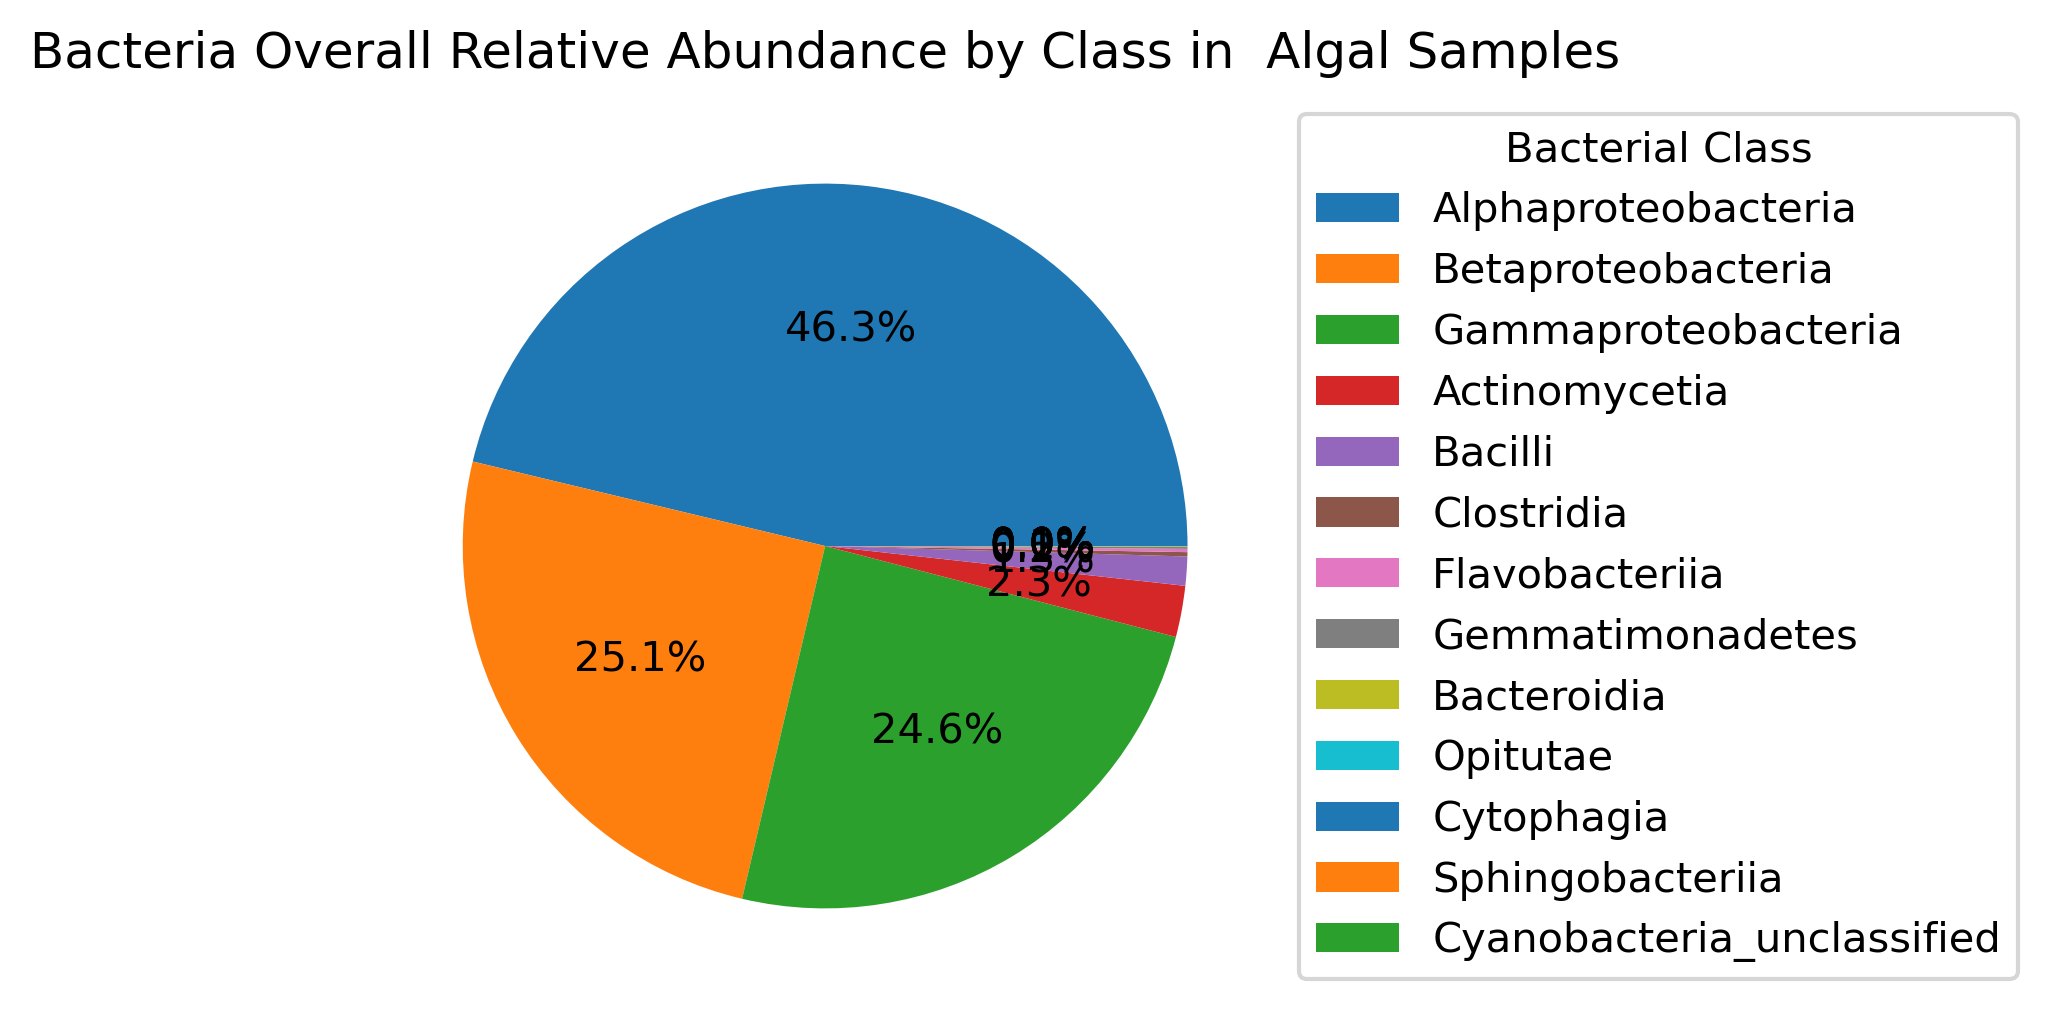
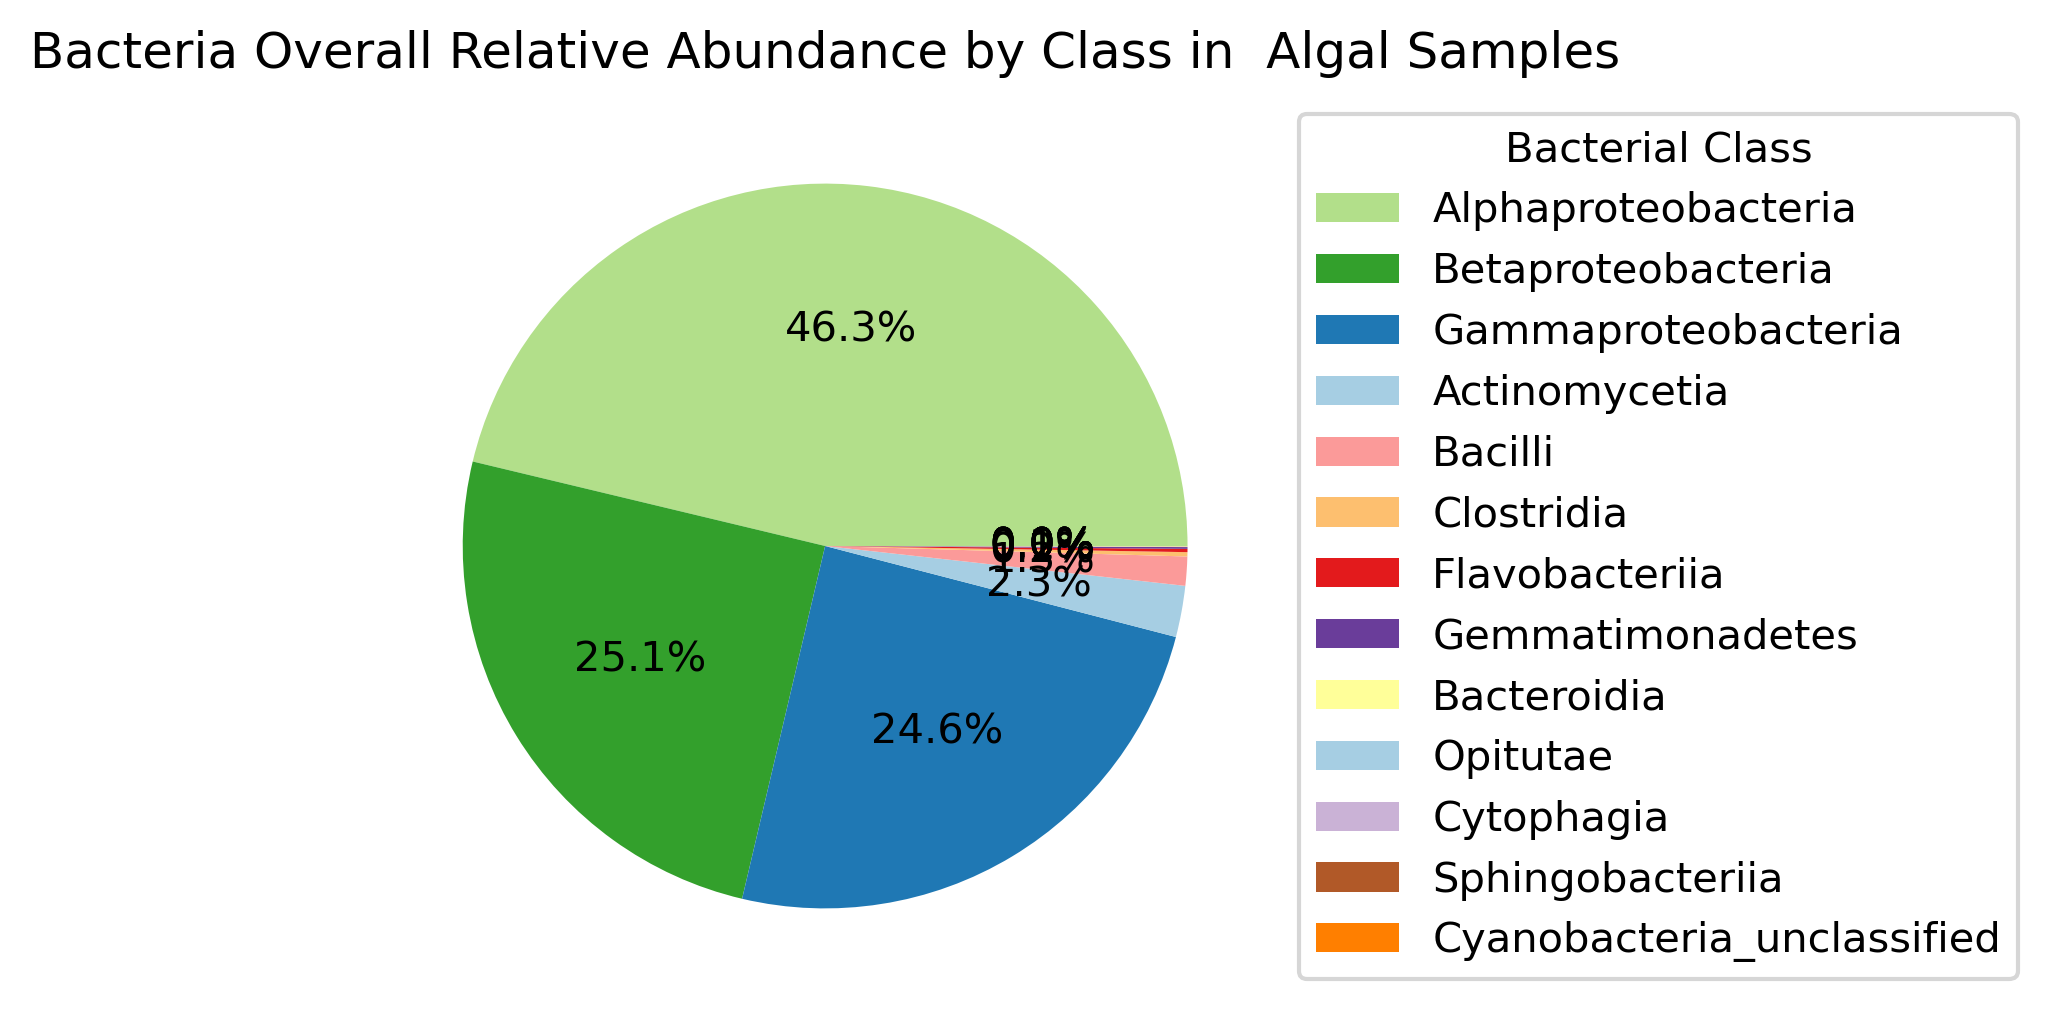
Updating codes for uniform colors and figures

diff --git a/algal_bacteria_metagen_analysis/analysing_overlap/analyze_mapping.py b/algal_bacteria_metagen_analysis/analysing_overlap/analyze_mapping.py
@@ -56,17 +56,6 @@ algaCellPhen.drop(columns=['index'],inplace=True)
 multiCellAlg=list(algaCellPhen[algaCellPhen['Phenotype']=='Multi']['Species'])
 uniCellAlg = list(algaCellPhen[algaCellPhen['Phenotype']=='Uni']['Species'])
 
-#Common bacteria in both algal types
-commonBac = bacRAinAlgSamps[(bacRAinAlgSamps['#MultAlgSp'] >0) & (bacRAinAlgSamps['#UniAlgSp'] >0)]
-
-#Bacterial species only present in multicellular algae samples
-multiSpecificBac = bacRAinAlgSamps[(bacRAinAlgSamps['#MultAlgSp'] >0) & (bacRAinAlgSamps['#UniAlgSp'] ==0)]
-
-#Bacterial species only present in Unicellular algae samples
-uniSpecificBac = bacRAinAlgSamps[(bacRAinAlgSamps['#MultAlgSp'] ==0) & (bacRAinAlgSamps['#UniAlgSp'] >0)]
-
-#Unique bacteria found only in one algal spices.
-uniqueBac = bacRAinAlgSamps[(bacRAinAlgSamps['#AlgSpTot'] ==1)]
 
 #Create detection matrix
 bacDetInAlgSamps = bacRAinAlgSamps.set_index('Microbial Species')
@@ -76,19 +65,34 @@ for bac in bacDetInAlgSamps.index:
             bacDetInAlgSamps.loc[bac,alg]=1
 
 # Assuming bacRAinAlgSamps is your DataFrame
-uniqueClasses = set(bacRAinAlgSamps['Class'].str.replace('c__',''))
+uniqueClasses = bacRAinAlgSamps['Class'].str.replace('c__','').unique()
+
 # Generate colors using cm.tab20 
-colorPalette = cm.tab20.colors # This gives us a list of 20 colors
+colorPalette = cm.Paired.colors # This gives us a list of 20 colors
+
  # Map each class to a color
 colorMap = {class_name: colorPalette[i % len(colorPalette)] for i, class_name in enumerate(uniqueClasses)}
  
 #Data without Chlamydomonas_callosa.
-bacRAinAlgSampsWoCall = bacRAinAlgSamps.drop(columns=['Chlamydomonas_callosa'])
-bacDetinAlgSampsWoCall = bacDetInAlgSamps.drop(columns=['Chlamydomonas_callosa'])
+bacRAinAlgSampsWoCall=bacRAinAlgSamps[((bacRAinAlgSamps['#AlgSpTot'] ==1) & (bacRAinAlgSamps['Chlamydomonas_callosa']!=0))==False]
+bacRAinAlgSampsWoCall = bacRAinAlgSampsWoCall.drop(columns=['Chlamydomonas_callosa'])
+bacDetinAlgSampsWoCall=bacDetInAlgSamps[((bacDetInAlgSamps['#AlgSpTot'] ==1) & (bacDetInAlgSamps['Chlamydomonas_callosa']!=0))==False]
+bacDetinAlgSampsWoCall = bacDetinAlgSampsWoCall.drop(columns=['Chlamydomonas_callosa'])
 algaCellPhenWoCall = algaCellPhen[algaCellPhen['Species']!='Chlamydomonas_callosa']
 uniCellAlgWoCall = uniCellAlg.copy()
 uniCellAlgWoCall.remove('Chlamydomonas_callosa')
 
+#Common bacteria in both algal types
+commonBac = bacRAinAlgSampsWoCall[(bacRAinAlgSampsWoCall['#MultAlgSp'] >0) & (bacRAinAlgSampsWoCall['#UniAlgSp'] >0)]
+
+#Bacterial species only present in multicellular algae samples
+multiSpecificBac = bacRAinAlgSampsWoCall[(bacRAinAlgSampsWoCall['#MultAlgSp'] >0) & (bacRAinAlgSampsWoCall['#UniAlgSp'] ==0)]
+
+#Bacterial species only present in Unicellular algae samples
+uniSpecificBac = bacRAinAlgSampsWoCall[(bacRAinAlgSampsWoCall['#MultAlgSp'] ==0) & (bacRAinAlgSampsWoCall['#UniAlgSp'] >0)]
+
+#Unique bacteria found only in one algal spices.
+uniqueBac = bacRAinAlgSampsWoCall[(bacRAinAlgSampsWoCall['#AlgSpTot'] ==1)]
 
 
 
@@ -191,8 +195,8 @@ def produce_pie_chart(mappingMatrix,aggTaxLevel,algaCellPhen,outDir,colorMap,phy
     
     #Pi chart showing RA of bacteria over all specified species.
     plt.figure()
-    piChart= totalBac.plot.pie(color=colors,labels=['']*len(totalBac),autopct='%1.1f%%')
-    plt.legend(totalBac.index,bbox_to_anchor=(1.0,1.0),title='Bacterial '+aggTaxLevel)
+    piChart= totalBac.plot.pie(colors=colors,labels=['']*len(totalBac),autopct='%1.1f%%').legend(totalBac.index,bbox_to_anchor=(1.0,1.0),title='Bacterial '+aggTaxLevel)
+    
     plt.title('Bacteria Overall Relative Abundance by '+ aggTaxLevel + ' in '  +' Algal Samples')
     plt.savefig(outDir+'overall_bac_by_'+aggTaxLevel+'.png', format='png', dpi=300, bbox_inches='tight')
     
@@ -244,8 +248,6 @@ def perform_pca(matrix,aggTaxLevel,uniCellAlg,multiCellAlg,outDir):
 # =============================================================================
 # Generating Figures.
 # =============================================================================
-#Bacterial classes RA for overall samples.
-bacteriaRAPiChart=produce_pie_chart(bacRAinAlgSamps,'Class',algaCellPhen,outDir=outDir,colorMap=colorMap,phylum=None)
 
 #Bacterial classes RA for every algal sample.
 bacRAbyClassFig = produce_stacked_chart(bacRAinAlgSamps, 'Class', algaCellPhen, 'All',outDir=outDir,colorMap=colorMap,logScale=False)
@@ -255,7 +257,10 @@ bacRAbyClassFig = produce_stacked_chart(bacRAinAlgSamps, 'Class', algaCellPhen, 
 multiSpBacFig = produce_stacked_chart(multiSpecificBac,'Class',algaCellPhen[algaCellPhen['Phenotype']=='Multi'],'Multicellular',outDir=outDir,colorMap=colorMap,logScale=True)
 
 #Bacterial classes RA for unicellular specific bacteria.
-uniSpecificBacFig = produce_stacked_chart(uniSpecificBac,'Class',algaCellPhen[algaCellPhen['Phenotype']=='Uni'],'Unicellular',outDir=outDir,colorMap=colorMap,logScale=True)
+uniSpecificBacFig = produce_stacked_chart(uniSpecificBac,'Class',algaCellPhenWoCall[algaCellPhenWoCall['Phenotype']=='Uni'],'Unicellular',outDir=outDir,colorMap=colorMap,logScale=True)
+
+#Bacterial classes RA for overall samples.
+bacteriaRAPiChart=produce_pie_chart(bacRAinAlgSamps,'Class',algaCellPhen,outDir=outDir,colorMap=colorMap,phylum=None)
 
 #PCA by species for ORA.
 varRASpecies = perform_pca(bacRAinAlgSamps, 'Species', uniCellAlg, multiCellAlg,outDir=outDir)
@@ -277,9 +282,11 @@ varDetSpeciesWoCall = perform_pca(bacDetinAlgSampsWoCall, 'Species', uniCellAlgW
 
 ##PCA by Class for ORA without Chlamydomonas_Callosa
 varRASpeciesWoCall = perform_pca(bacRAinAlgSampsWoCall, 'Class', uniCellAlgWoCall, multiCellAlg,outDir=outDir+'wo_callosa_')
-
-totBacSp = len(bacRAinAlgSamps)
-mostCommon = bacRAinAlgSamps[bacRAinAlgSamps['#AlgSpTot'] == max(bacRAinAlgSamps['#AlgSpTot'])]['Microbial Species'].values[0]
-mostCommonMult = bacRAinAlgSamps[bacRAinAlgSamps['#MultAlgSp'] == max(bacRAinAlgSamps['#MultAlgSp'])]['Microbial Species'].values[0]
-mostCommonUni = bacRAinAlgSamps[bacRAinAlgSamps['#UniAlgSp'] == max(bacRAinAlgSamps['#UniAlgSp'])]['Microbial Species'].values[0]
+#%%
+totBacSp = len(bacRAinAlgSampsWoCall)
+mostCommon = bacRAinAlgSampsWoCall[bacRAinAlgSampsWoCall['#AlgSpTot'] == max(bacRAinAlgSampsWoCall['#AlgSpTot'])]['Microbial Species'].values[0],max(bacRAinAlgSampsWoCall['#AlgSpTot'])
+mostCommonMult = bacRAinAlgSampsWoCall[bacRAinAlgSampsWoCall['#MultAlgSp'] == max(bacRAinAlgSampsWoCall['#MultAlgSp'])]['Microbial Species'].values[0],max(bacRAinAlgSampsWoCall['#MultAlgSp'])
+mostCommonUni = bacRAinAlgSampsWoCall[bacRAinAlgSampsWoCall['#UniAlgSp'] == max(bacRAinAlgSampsWoCall['#UniAlgSp'])]['Microbial Species'].values[0],max(bacRAinAlgSampsWoCall['#UniAlgSp'])
+mostCommonMultSpe = multiSpecificBac[multiSpecificBac['#AlgSpTot']==max(multiSpecificBac['#AlgSpTot'])]['Microbial Species'].values[0],max(multiSpecificBac['#AlgSpTot'])
+mostCommonUniSpe = uniSpecificBac[uniSpecificBac['#AlgSpTot']==max(uniSpecificBac['#AlgSpTot'])]['Microbial Species'].values[0],max(uniSpecificBac['#AlgSpTot'])
 avgNumBac = totBacSp/len(algaCellPhen) 

diff --git a/algal_bacteria_metagen_analysis/README.md b/algal_bacteria_metagen_analysis/README.md
@@ -47,7 +47,7 @@ Now the relative abundance of A and B in Bracken will be 0.33 and 0.66. The rela
 
 ### Producing Figures 
 
-Finally, the file generated by in the last step of relative abundance can be used with the script analyze_mapping.py to produce some figures. As it can be seen from the 1st figure,the sample of *Chlamydomonas_Callosa* has a very different composition from the remaining. It was found that it had highest abundance of the species *Staphylococcus_aureus* which is a common skin bacteria of humans. Therefore, we interpreted this as a contamination and we decided to drop it from our further analysis.
+Finally, the file generated by in the last step of relative abundance can be used with the script analyze_mapping.py to produce some figures. As it can be seen from the  Fig2,the sample of *Chlamydomonas_Callosa* has a very different composition from the remaining. It was found that it had highest abundance of the species *Staphylococcus_aureus* which is a common skin bacteria of humans. Therefore, we interpreted this as a contamination and we decided to drop it from our further analysis.
 
 <div align="center"> 
 	<img src="./figures/overall_bac_by_Class.png"alt="Fig1. Overall ORA of bacterial species by class level."> 
@@ -63,7 +63,7 @@ Finally, the file generated by in the last step of relative abundance can be use
 </div>
 
 As we can see we could not find any class or lowe taxonomy level of bacteria that is common to all uni or multicellular bacteria. However, we did find a number of 
-bacterial species (63 species)that is only present in multicellular bacteria. Every algal species in our samples has at least one of these species except for *Volvox_Tertius*. 100 bacterial species were common to multicellular and unicellular algae and 106 were sepecific to unicellular algae. 
+bacterial species (63 species)that is only present in multicellular bacteria. Every algal species in our samples has at least one of these species except for *Volvox_Tertius*. 100 bacterial species were common to multicellular and unicellular algae and 103 were sepecific to unicellular algae. 
 
 <div align="center"> 
 	<img src="./figures/Unicellularby_algae_bac_by_Class.png"alt="Fig3. ORA of unicellular algae specific bacterial species by class."> 
@@ -91,7 +91,7 @@ species and another one with the presence and absence only (0 for absent and 1 f
 <div align="center"> 
 	<img src="./figures/wo_callosa_detPCA_BY_Species.png"alt="Fig6. PCA with presence/absence."> 
 	<br> 
-	<em>Fig6. PCA with presence/absence..</em>
+	<em>Fig6. PCA with presence/absence.</em>
 </div>
 
 
